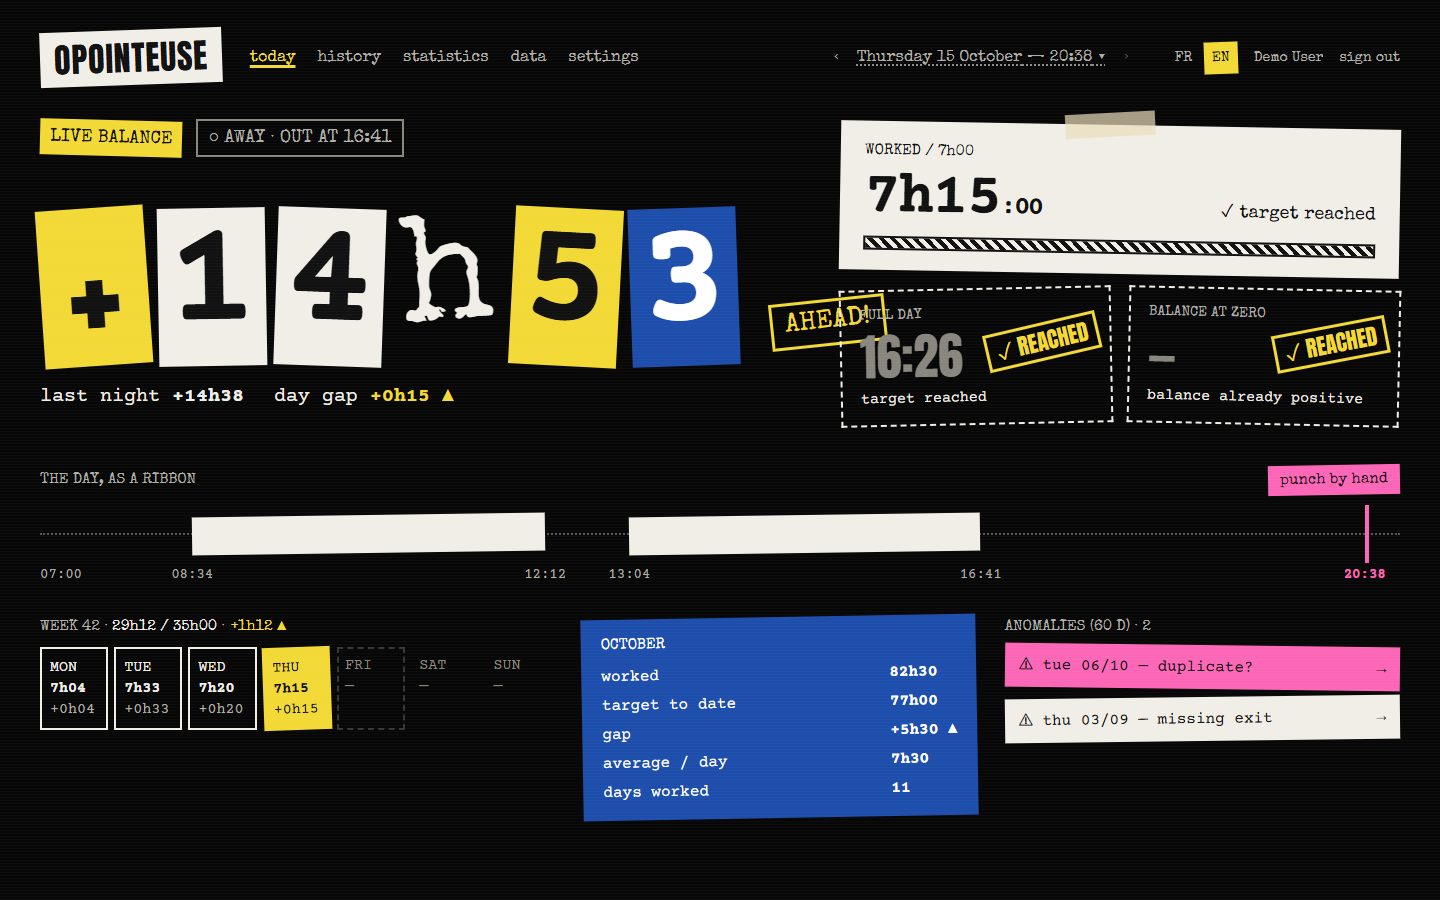
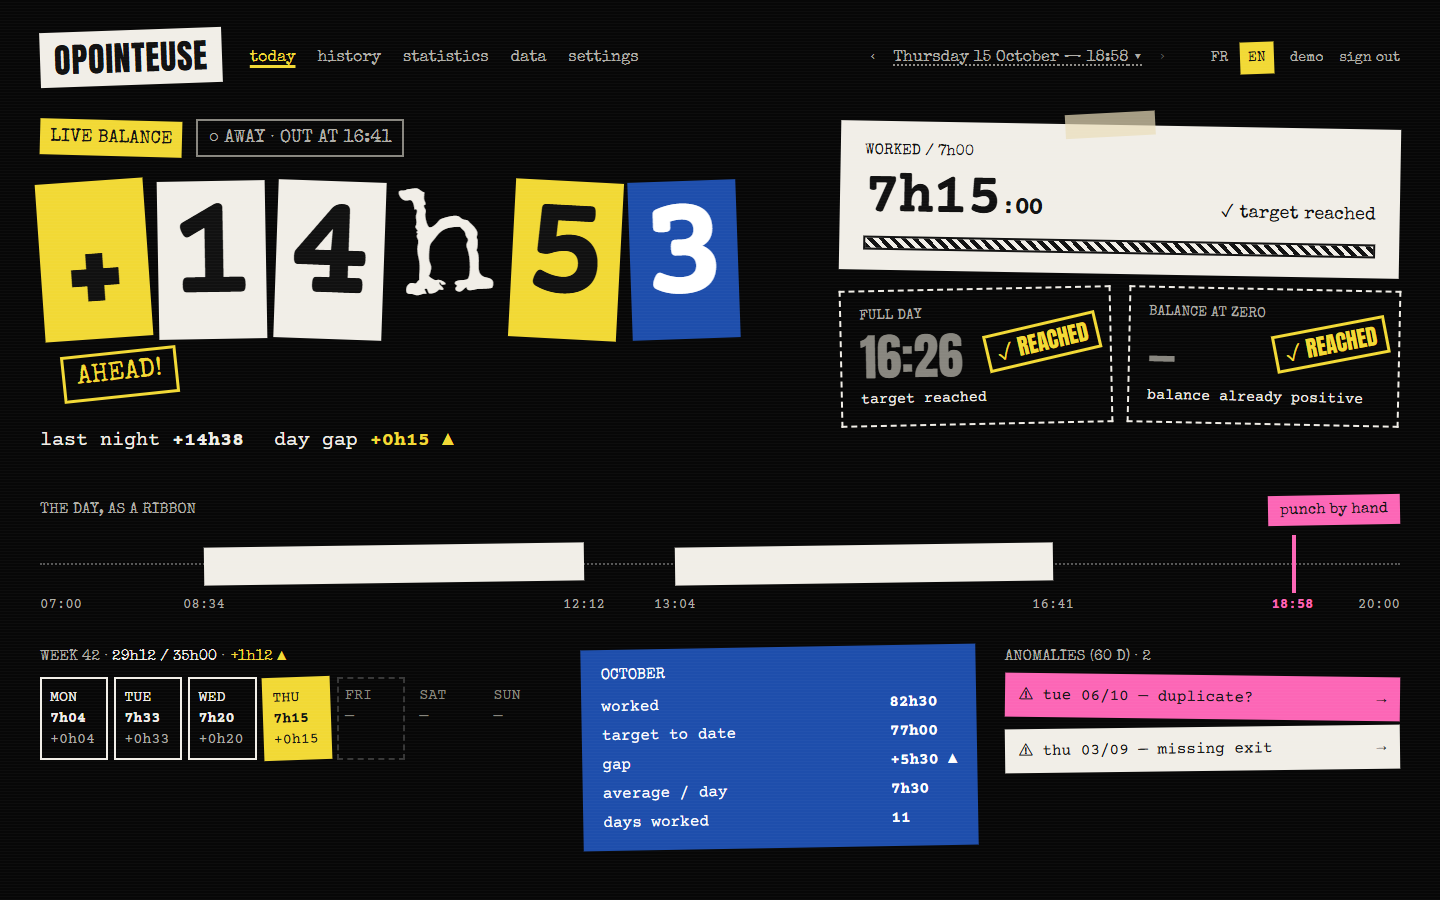
[T16] Final touch-ups: stamp overlap, Settings overflow, tab bar, README screenshots, doc notes

diff --git a/src/pages/Dashboard.tsx b/src/pages/Dashboard.tsx
@@ -50,8 +50,8 @@ function ExitCard({
       <div className={cx("font-display text-4xl lg:text-[50px] lg:leading-tight", muted && "text-paper-dim")}>{time}</div>
       {reached ? (
         <>
-          <div className="font-label text-[13px] text-yellow lg:hidden">✓ {reached}</div>
-          <div className="hidden lg:block">
+          <div className="font-label text-[13px] text-yellow min-[1400px]:hidden">✓ {reached}</div>
+          <div className="hidden min-[1400px]:block">
             <Stamp className="absolute top-[34px] right-2.5 -rotate-12 border-[3px] border-current px-2 py-0.5 text-[22px] text-yellow">
               ✓ {reached}
             </Stamp>
@@ -220,14 +220,14 @@ export default function Dashboard() {
             {day && <DayTypeBadge day={day} className="-rotate-2" />}
           </div>
 
-          <div className="flex items-end gap-2.5 lg:min-h-[190px]">
+          <div className="flex items-end gap-2.5 lg:min-h-[190px] lg:flex-wrap lg:gap-y-3">
             <Ransom min={st.liveBalanceMin} className="mt-1.5 gap-[5px] text-[74px] lg:gap-2.5 lg:text-[118px] xl:text-[150px]" />
             {heroNote ? (
               <span className="mb-3.5 ml-[18px] hidden max-w-[230px] font-label text-lg leading-[1.3] text-paper-muted lg:block">
                 {heroNote}
               </span>
             ) : (
-              <div className="mb-5 ml-[22px] hidden lg:block">
+              <div className="mb-5 ml-[22px] hidden lg:block lg:mb-3">
                 <BalanceStamp min={st.liveBalanceMin} dayDelta={st.targetMin > 0 ? dayDelta : undefined} />
               </div>
             )}

diff --git a/src/App.tsx b/src/App.tsx
@@ -149,14 +149,14 @@ function Shell() {
       </main>
 
       {/* Mobile tab bar */}
-      <nav className="fixed inset-x-0 bottom-0 z-40 grid grid-cols-5 border-t-[3px] border-onpaper bg-paper pb-[env(safe-area-inset-bottom)] font-label text-xs text-onpaper lg:hidden">
+      <nav className="fixed inset-x-0 bottom-0 z-40 grid grid-cols-5 border-t-[3px] border-onpaper bg-paper pb-[env(safe-area-inset-bottom)] font-label text-[11px] min-[400px]:text-xs text-onpaper lg:hidden">
         {NAV.map(({ to, label, short, glyph }) => (
           <NavLink
             key={to}
             to={to}
             end={to === "/"}
             className={({ isActive }) =>
-              `flex h-[68px] flex-col items-center justify-center gap-[3px] ${isActive ? "bg-yellow" : ""}`
+              `flex h-[68px] min-w-0 flex-col items-center justify-center gap-[3px] px-0.5 ${isActive ? "bg-yellow" : ""}`
             }
           >
             <b aria-hidden className="font-display text-lg font-normal">

diff --git a/src/components/IntegrationsGuide.tsx b/src/components/IntegrationsGuide.tsx
@@ -219,10 +219,10 @@ function StepList({ defs }: { defs: StepDef[] }) {
               <Tip tone={d.tip.tone}>
                 <Rich text={t(key(d.tip.text))} />
                 {d.tip.vars && (
-                  <span className="mt-2 grid grid-cols-[auto_1fr] gap-x-4 gap-y-0.5 text-sm">
+                  <span className="mt-2 grid grid-cols-1 gap-y-0.5 text-sm sm:grid-cols-[auto_1fr] sm:gap-x-4">
                     {VAR_KEYS.map(([v, k]) => (
                       <span key={v} className="contents">
-                        <code className="bg-coal px-1.5 py-px break-words text-yellow">{v}</code>
+                        <code className="mt-1.5 w-fit max-w-full bg-coal px-1.5 py-px break-all text-yellow sm:mt-0">{v}</code>
                         <span className="text-paper-muted">
                           <Rich text={t(key(k))} />
                         </span>

diff --git a/README.fr.md b/README.fr.md
@@ -10,8 +10,10 @@ lecteur de badge s'en charge) : le pointage est enregistré, l'entrée ou la sor
 l'application web affiche votre solde d'heures en temps réel.** Elle est pensée pour une personne seule ou une petite
 équipe, et tourne sur Cloudflare Workers + D1 (offre gratuite), sur n'importe quel serveur Node, ou dans Docker.
 
-<!-- Captures d'écran : les ajouter dans docs/images/ puis les lier ici, par ex.
-![Aujourd'hui](docs/images/today.png) ![Historique](docs/images/history.png) ![Stats](docs/images/stats.png) -->
+![Aujourd'hui : solde en direct et temps travaillé](docs/images/today.png)
+![Historique : pointages modifiables](docs/images/history.png)
+![Stats : semaines, mois et carte de chaleur](docs/images/stats.png)
+<img src="docs/images/today-mobile.png" alt="Aujourd'hui sur téléphone" width="240">
 
 ## Fonctionnalités
 

diff --git a/docs/deploy-cloudflare.md b/docs/deploy-cloudflare.md
@@ -183,4 +183,5 @@ some CPU time at login; this is well within the free CPU budget for normal use.
 | Login impossible, no account | Create one (step 7). |
 | Login answers 429 "Too many failed attempts" | The account is locked for 15 min after 10 wrong passwords. Wait, or `npm run user -- unlock <username> --d1-remote`. |
 | An API call from a script answers 415 | Add `-H 'Content-Type: application/json'` to requests with a body. |
+| On Windows, `wrangler … --local` answers `internal error; reference=…` | The project path is very long: the local D1 file under `.wrangler/state/v3/d1/` exceeds the 260-character Windows path limit. Clone into a short path such as `C:\src\opointeuse`, or add `--persist-to <short path>`. |
 | Punches have the wrong day or hour | Set the account's time zone in Settings, or `DEFAULT_TIMEZONE`. |

diff --git a/docs/deploy-docker.md b/docs/deploy-docker.md
@@ -80,7 +80,7 @@ docker run --rm -v opointeuse_opointeuse-data:/data -v "$PWD":/backup alpine \
 docker compose start
 ```
 
-(The actual volume name is prefixed with the Compose project, usually the folder name: check with `docker volume ls`.)
+(The volume name in the command above assumes the project folder is called `opointeuse`. Compose prefixes the volume with the project name, which defaults to the folder name, so a clone in another folder gives another name. Find yours with `docker volume ls | grep opointeuse-data` and use it in `-v <name>:/data`.)
 
 To restore, stop the container, put the database file back into the volume as `opointeuse.db` (removing leftover
 `-wal` and `-shm` files), and start again.

diff --git a/README.md b/README.md
@@ -10,8 +10,10 @@ punch is recorded, entry or exit is worked out for you, and the web app shows yo
 It is built for one person or a small team, and runs on Cloudflare Workers + D1 (free tier), on any Node server, or
 in Docker.
 
-<!-- Screenshots: add them to docs/images/ and link them here, e.g.
-![Today](docs/images/today.png) ![History](docs/images/history.png) ![Stats](docs/images/stats.png) -->
+![Today: live balance and worked time](docs/images/today.png)
+![History: editable punches](docs/images/history.png)
+![Stats: weeks, months and heat map](docs/images/stats.png)
+<img src="docs/images/today-mobile.png" alt="Today on a phone" width="240">
 
 ## Features
 
